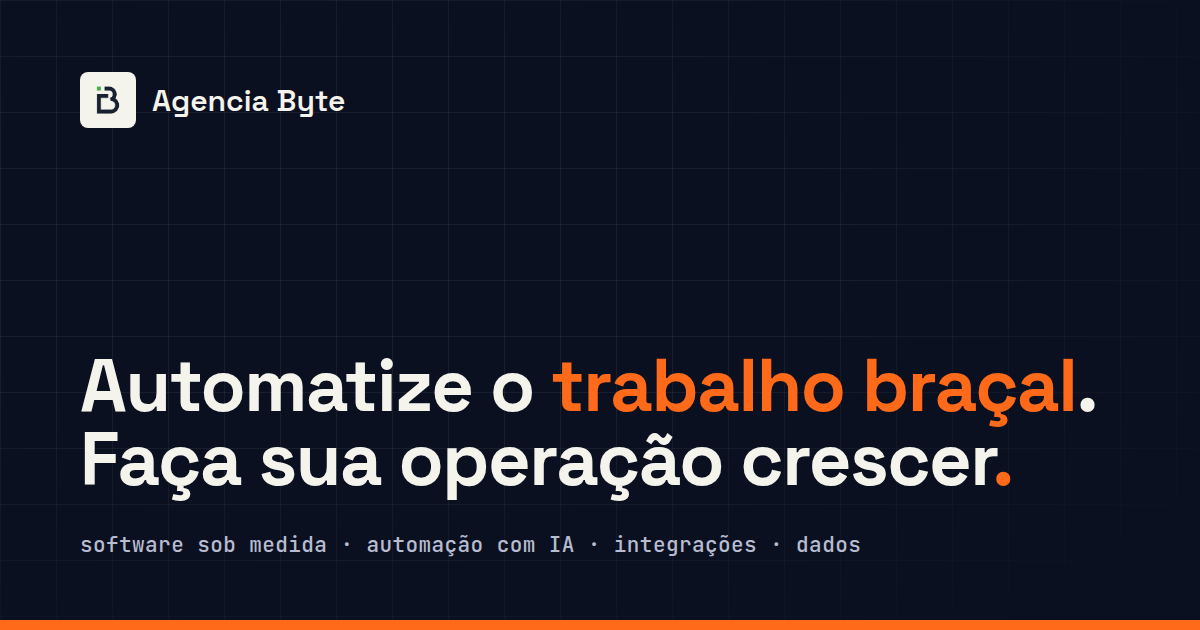
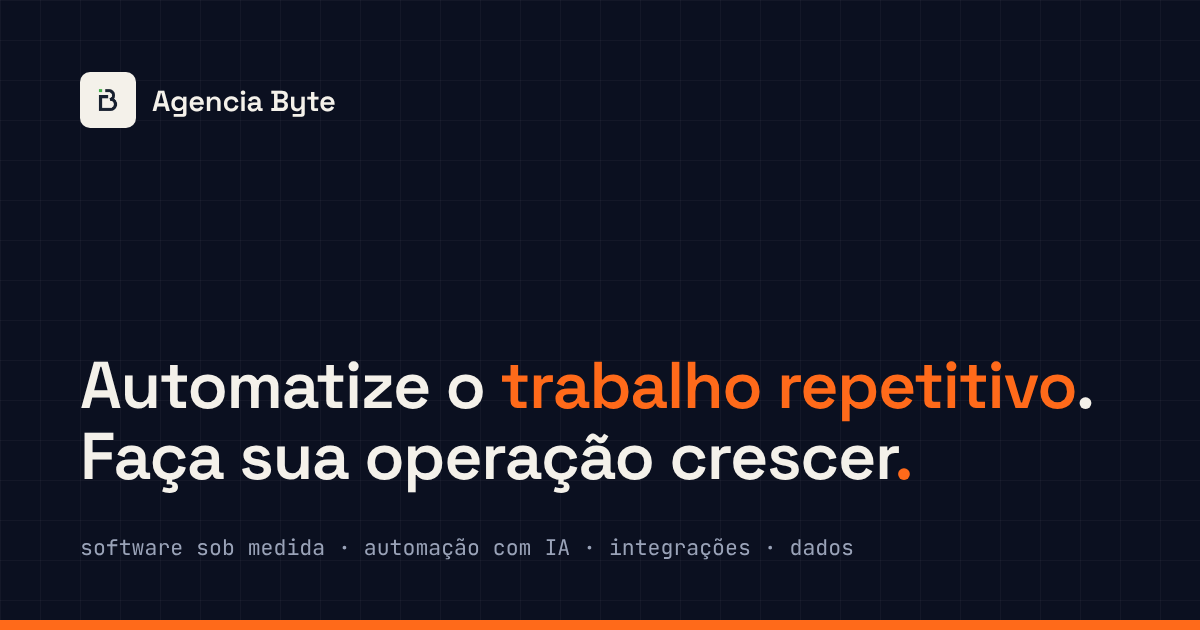
Atualiza frase da imagem de preview (og-image)
Troca "Automatize o trabalho braçal" por "Automatize o trabalho repetitivo"
e adiciona ?v=2 na URL da og:image para forçar WhatsApp/LinkedIn a buscar
a nova versão.

Claude-Session: https://claude.ai/code/session_014aYgqMKQgxsHuGdqEmaTQ5

diff --git a/blog/automacao-com-ia-para-pme/index.html b/blog/automacao-com-ia-para-pme/index.html
@@ -15,7 +15,7 @@
 <meta property="og:url" content="https://agenciabyte.com/blog/automacao-com-ia-para-pme" />
 <meta property="og:title" content="Automação com IA para PME: 7 processos que se pagam | Agência Byte" />
 <meta property="og:description" content="Quais processos automatizar com IA primeiro numa PME: os 7 que se pagam, os 3 que não valem, quanto custa e um checklist de prontidão." />
-<meta property="og:image" content="https://agenciabyte.com/img/og-image.png" />
+<meta property="og:image" content="https://agenciabyte.com/img/og-image.png?v=2" />
 <meta property="og:image:width" content="1200" />
 <meta property="og:image:height" content="630" />
 <meta property="og:locale" content="pt_BR" />
@@ -26,7 +26,7 @@
 <meta name="twitter:card" content="summary_large_image" />
 <meta name="twitter:title" content="Automação com IA para PME: 7 processos que se pagam | Agência Byte" />
 <meta name="twitter:description" content="Quais processos automatizar com IA primeiro numa PME: os 7 que se pagam, os 3 que não valem, quanto custa e um checklist de prontidão." />
-<meta name="twitter:image" content="https://agenciabyte.com/img/og-image.png" />
+<meta name="twitter:image" content="https://agenciabyte.com/img/og-image.png?v=2" />
 
 <meta name="theme-color" content="#FF6A1A" />
 <link rel="icon" href="/img/logo_byte_64.png" sizes="64x64" type="image/png" />
@@ -46,7 +46,7 @@
       "inLanguage": "pt-BR",
       "datePublished": "2026-11-13",
       "dateModified": "2026-11-13",
-      "image": "https://agenciabyte.com/img/og-image.png",
+      "image": "https://agenciabyte.com/img/og-image.png?v=2",
       "author": {
         "@id": "https://agenciabyte.com/#organization"
       },

diff --git a/servicos/integracao-bling-marketplaces/integracao-bling-mercado-livre/index.html b/servicos/integracao-bling-marketplaces/integracao-bling-mercado-livre/index.html
@@ -15,7 +15,7 @@
 <meta property="og:url" content="https://agenciabyte.com/servicos/integracao-bling-marketplaces/integracao-bling-mercado-livre" />
 <meta property="og:title" content="Integração Bling com Mercado Livre: quando usar API | Agência Byte" />
 <meta property="og:description" content="O que a integração nativa do Bling com o Mercado Livre cobre, onde ela para (variações, Full, kits, preço por comissão) e quando vale integrar via API." />
-<meta property="og:image" content="https://agenciabyte.com/img/og-image.png" />
+<meta property="og:image" content="https://agenciabyte.com/img/og-image.png?v=2" />
 <meta property="og:image:width" content="1200" />
 <meta property="og:image:height" content="630" />
 <meta property="og:locale" content="pt_BR" />
@@ -26,7 +26,7 @@
 <meta name="twitter:card" content="summary_large_image" />
 <meta name="twitter:title" content="Integração Bling com Mercado Livre: quando usar API | Agência Byte" />
 <meta name="twitter:description" content="O que a integração nativa do Bling com o Mercado Livre cobre, onde ela para (variações, Full, kits, preço por comissão) e quando vale integrar via API." />
-<meta name="twitter:image" content="https://agenciabyte.com/img/og-image.png" />
+<meta name="twitter:image" content="https://agenciabyte.com/img/og-image.png?v=2" />
 
 <meta name="theme-color" content="#FF6A1A" />
 <link rel="icon" href="/img/logo_byte_64.png" sizes="64x64" type="image/png" />

diff --git a/servicos/integracao-bling-marketplaces/integracao-bling-tiktok-shop/index.html b/servicos/integracao-bling-marketplaces/integracao-bling-tiktok-shop/index.html
@@ -15,7 +15,7 @@
 <meta property="og:url" content="https://agenciabyte.com/servicos/integracao-bling-marketplaces/integracao-bling-tiktok-shop" />
 <meta property="og:title" content="Integração Bling com TikTok Shop: quando usar API | Agência Byte" />
 <meta property="og:description" content="Como o Bling integra com o TikTok Shop, onde a integração nativa para (picos de live, kits, estoque compartilhado, produção) e quando vale integrar via API." />
-<meta property="og:image" content="https://agenciabyte.com/img/og-image.png" />
+<meta property="og:image" content="https://agenciabyte.com/img/og-image.png?v=2" />
 <meta property="og:image:width" content="1200" />
 <meta property="og:image:height" content="630" />
 <meta property="og:locale" content="pt_BR" />
@@ -26,7 +26,7 @@
 <meta name="twitter:card" content="summary_large_image" />
 <meta name="twitter:title" content="Integração Bling com TikTok Shop: quando usar API | Agência Byte" />
 <meta name="twitter:description" content="Como o Bling integra com o TikTok Shop, onde a integração nativa para (picos de live, kits, estoque compartilhado, produção) e quando vale integrar via API." />
-<meta name="twitter:image" content="https://agenciabyte.com/img/og-image.png" />
+<meta name="twitter:image" content="https://agenciabyte.com/img/og-image.png?v=2" />
 
 <meta name="theme-color" content="#FF6A1A" />
 <link rel="icon" href="/img/logo_byte_64.png" sizes="64x64" type="image/png" />

diff --git a/software-sob-medida-ponta-grossa/index.html b/software-sob-medida-ponta-grossa/index.html
@@ -15,7 +15,7 @@
 <meta property="og:url" content="https://agenciabyte.com/software-sob-medida-ponta-grossa" />
 <meta property="og:title" content="Software sob medida em Ponta Grossa (PR) | Agência Byte" />
 <meta property="og:description" content="Desenvolvimento de software sob medida em Ponta Grossa: sistemas, integração de ERP, CRM e marketplaces, automação com IA e Power BI. Atendemos também todo o Brasil e o exterior." />
-<meta property="og:image" content="https://agenciabyte.com/img/og-image.png" />
+<meta property="og:image" content="https://agenciabyte.com/img/og-image.png?v=2" />
 <meta property="og:image:width" content="1200" />
 <meta property="og:image:height" content="630" />
 <meta property="og:locale" content="pt_BR" />
@@ -26,7 +26,7 @@
 <meta name="twitter:card" content="summary_large_image" />
 <meta name="twitter:title" content="Software sob medida em Ponta Grossa (PR) | Agência Byte" />
 <meta name="twitter:description" content="Desenvolvimento de software sob medida em Ponta Grossa: sistemas, integração de ERP, CRM e marketplaces, automação com IA e Power BI. Atendemos também todo o Brasil e o exterior." />
-<meta name="twitter:image" content="https://agenciabyte.com/img/og-image.png" />
+<meta name="twitter:image" content="https://agenciabyte.com/img/og-image.png?v=2" />
 
 <meta name="theme-color" content="#FF6A1A" />
 <link rel="icon" href="/img/logo_byte_64.png" sizes="64x64" type="image/png" />

diff --git a/servicos/integracao-bling-marketplaces/integracao-bling-shopee/index.html b/servicos/integracao-bling-marketplaces/integracao-bling-shopee/index.html
@@ -15,7 +15,7 @@
 <meta property="og:url" content="https://agenciabyte.com/servicos/integracao-bling-marketplaces/integracao-bling-shopee" />
 <meta property="og:title" content="Integração Bling com Shopee: limites e quando usar API | Agência Byte" />
 <meta property="og:description" content="O que a integração nativa do Bling com a Shopee cobre, onde ela para (campanhas, variações, kits, preço por canal) e quando vale integrar via API." />
-<meta property="og:image" content="https://agenciabyte.com/img/og-image.png" />
+<meta property="og:image" content="https://agenciabyte.com/img/og-image.png?v=2" />
 <meta property="og:image:width" content="1200" />
 <meta property="og:image:height" content="630" />
 <meta property="og:locale" content="pt_BR" />
@@ -26,7 +26,7 @@
 <meta name="twitter:card" content="summary_large_image" />
 <meta name="twitter:title" content="Integração Bling com Shopee: limites e quando usar API | Agência Byte" />
 <meta name="twitter:description" content="O que a integração nativa do Bling com a Shopee cobre, onde ela para (campanhas, variações, kits, preço por canal) e quando vale integrar via API." />
-<meta name="twitter:image" content="https://agenciabyte.com/img/og-image.png" />
+<meta name="twitter:image" content="https://agenciabyte.com/img/og-image.png?v=2" />
 
 <meta name="theme-color" content="#FF6A1A" />
 <link rel="icon" href="/img/logo_byte_64.png" sizes="64x64" type="image/png" />

diff --git a/servicos/integracao-bling-marketplaces/index.html b/servicos/integracao-bling-marketplaces/index.html
@@ -15,7 +15,7 @@
 <meta property="og:url" content="https://agenciabyte.com/servicos/integracao-bling-marketplaces" />
 <meta property="og:title" content="Integração Bling com marketplaces: quando usar API | Agência Byte" />
 <meta property="og:description" content="O que o Bling faz sozinho com Mercado Livre, Shopee e TikTok Shop, os 5 limites que pedem integração via API (kits, fiscal, estoque, produção, preço) e o prazo." />
-<meta property="og:image" content="https://agenciabyte.com/img/og-image.png" />
+<meta property="og:image" content="https://agenciabyte.com/img/og-image.png?v=2" />
 <meta property="og:image:width" content="1200" />
 <meta property="og:image:height" content="630" />
 <meta property="og:locale" content="pt_BR" />
@@ -26,7 +26,7 @@
 <meta name="twitter:card" content="summary_large_image" />
 <meta name="twitter:title" content="Integração Bling com marketplaces: quando usar API | Agência Byte" />
 <meta name="twitter:description" content="O que o Bling faz sozinho com Mercado Livre, Shopee e TikTok Shop, os 5 limites que pedem integração via API (kits, fiscal, estoque, produção, preço) e o prazo." />
-<meta name="twitter:image" content="https://agenciabyte.com/img/og-image.png" />
+<meta name="twitter:image" content="https://agenciabyte.com/img/og-image.png?v=2" />
 
 <meta name="theme-color" content="#FF6A1A" />
 <link rel="icon" href="/img/logo_byte_64.png" sizes="64x64" type="image/png" />

diff --git a/es/casos-de-uso/automatizacion-de-procesos-administrativos/index.html b/es/casos-de-uso/automatizacion-de-procesos-administrativos/index.html
@@ -17,7 +17,7 @@
 <meta property="og:url" content="https://agenciabyte.com/es/casos-de-uso/automatizacion-de-procesos-administrativos" />
 <meta property="og:title" content="Automatización de procesos administrativos con IA | Agência Byte" />
 <meta property="og:description" content="Automatización de procesos administrativos con IA: conciliación bancaria, cobranza y altas de clientes hechas solas, con aprobación humana en los pagos." />
-<meta property="og:image" content="https://agenciabyte.com/img/og-image.png" />
+<meta property="og:image" content="https://agenciabyte.com/img/og-image.png?v=2" />
 <meta property="og:image:width" content="1200" />
 <meta property="og:image:height" content="630" />
 <meta property="og:locale" content="es_ES" />
@@ -29,7 +29,7 @@
 <meta name="twitter:card" content="summary_large_image" />
 <meta name="twitter:title" content="Automatización de procesos administrativos con IA | Agência Byte" />
 <meta name="twitter:description" content="Automatización de procesos administrativos con IA: conciliación bancaria, cobranza y altas de clientes hechas solas, con aprobación humana en los pagos." />
-<meta name="twitter:image" content="https://agenciabyte.com/img/og-image.png" />
+<meta name="twitter:image" content="https://agenciabyte.com/img/og-image.png?v=2" />
 
 <meta name="theme-color" content="#FF6A1A" />
 <link rel="icon" href="/img/logo_byte_64.png" sizes="64x64" type="image/png" />

diff --git a/servicos/power-bi-para-distribuidoras-e-transportadoras/index.html b/servicos/power-bi-para-distribuidoras-e-transportadoras/index.html
@@ -15,7 +15,7 @@
 <meta property="og:url" content="https://agenciabyte.com/servicos/power-bi-para-distribuidoras-e-transportadoras" />
 <meta property="og:title" content="Power BI para distribuidoras e transportadoras | Agência Byte" />
 <meta property="og:description" content="Os 12 indicadores de Power BI que mudam a operação de distribuidoras e transportadoras (OTIF, custo por entrega, margem por SKU, ruptura, giro) e o prazo." />
-<meta property="og:image" content="https://agenciabyte.com/img/og-image.png" />
+<meta property="og:image" content="https://agenciabyte.com/img/og-image.png?v=2" />
 <meta property="og:image:width" content="1200" />
 <meta property="og:image:height" content="630" />
 <meta property="og:locale" content="pt_BR" />
@@ -26,7 +26,7 @@
 <meta name="twitter:card" content="summary_large_image" />
 <meta name="twitter:title" content="Power BI para distribuidoras e transportadoras | Agência Byte" />
 <meta name="twitter:description" content="Os 12 indicadores de Power BI que mudam a operação de distribuidoras e transportadoras (OTIF, custo por entrega, margem por SKU, ruptura, giro) e o prazo." />
-<meta name="twitter:image" content="https://agenciabyte.com/img/og-image.png" />
+<meta name="twitter:image" content="https://agenciabyte.com/img/og-image.png?v=2" />
 
 <meta name="theme-color" content="#FF6A1A" />
 <link rel="icon" href="/img/logo_byte_64.png" sizes="64x64" type="image/png" />

diff --git a/casos-de-uso/automacao-de-processos-administrativos/index.html b/casos-de-uso/automacao-de-processos-administrativos/index.html
@@ -17,7 +17,7 @@
 <meta property="og:url" content="https://agenciabyte.com/casos-de-uso/automacao-de-processos-administrativos" />
 <meta property="og:title" content="Automação de processos administrativos com IA | Agência Byte" />
 <meta property="og:description" content="Automação de processos administrativos com IA: conciliação bancária, cobrança e cadastros feitos sozinhos, com aprovação humana nos pagamentos." />
-<meta property="og:image" content="https://agenciabyte.com/img/og-image.png" />
+<meta property="og:image" content="https://agenciabyte.com/img/og-image.png?v=2" />
 <meta property="og:image:width" content="1200" />
 <meta property="og:image:height" content="630" />
 <meta property="og:locale" content="pt_BR" />
@@ -29,7 +29,7 @@
 <meta name="twitter:card" content="summary_large_image" />
 <meta name="twitter:title" content="Automação de processos administrativos com IA | Agência Byte" />
 <meta name="twitter:description" content="Automação de processos administrativos com IA: conciliação bancária, cobrança e cadastros feitos sozinhos, com aprovação humana nos pagamentos." />
-<meta name="twitter:image" content="https://agenciabyte.com/img/og-image.png" />
+<meta name="twitter:image" content="https://agenciabyte.com/img/og-image.png?v=2" />
 
 <meta name="theme-color" content="#FF6A1A" />
 <link rel="icon" href="/img/logo_byte_64.png" sizes="64x64" type="image/png" />

diff --git a/es/casos-de-uso/asistente-documentos-de-la-empresa/index.html b/es/casos-de-uso/asistente-documentos-de-la-empresa/index.html
@@ -17,7 +17,7 @@
 <meta property="og:url" content="https://agenciabyte.com/es/casos-de-uso/asistente-documentos-de-la-empresa" />
 <meta property="og:title" content="Asistente de IA para documentos de la empresa | Agência Byte" />
 <meta property="og:description" content="Un asistente de IA que responde al equipo con base en los manuales y políticas de la empresa, mostrando siempre el documento del que sacó la respuesta." />
-<meta property="og:image" content="https://agenciabyte.com/img/og-image.png" />
+<meta property="og:image" content="https://agenciabyte.com/img/og-image.png?v=2" />
 <meta property="og:image:width" content="1200" />
 <meta property="og:image:height" content="630" />
 <meta property="og:locale" content="es_ES" />
@@ -29,7 +29,7 @@
 <meta name="twitter:card" content="summary_large_image" />
 <meta name="twitter:title" content="Asistente de IA para documentos de la empresa | Agência Byte" />
 <meta name="twitter:description" content="Un asistente de IA que responde al equipo con base en los manuales y políticas de la empresa, mostrando siempre el documento del que sacó la respuesta." />
-<meta name="twitter:image" content="https://agenciabyte.com/img/og-image.png" />
+<meta name="twitter:image" content="https://agenciabyte.com/img/og-image.png?v=2" />
 
 <meta name="theme-color" content="#FF6A1A" />
 <link rel="icon" href="/img/logo_byte_64.png" sizes="64x64" type="image/png" />

diff --git a/es/casos-de-uso/extraccion-de-datos-de-documentos/index.html b/es/casos-de-uso/extraccion-de-datos-de-documentos/index.html
@@ -17,7 +17,7 @@
 <meta property="og:url" content="https://agenciabyte.com/es/casos-de-uso/extraccion-de-datos-de-documentos" />
 <meta property="og:title" content="Extracción de datos con IA: facturas y CT-e | Agência Byte" />
 <meta property="og:description" content="Extracción de datos con IA: facturas, CT-e, contratos y comprobantes leídos, verificados y cargados en el ERP. El equipo solo revisa lo que no coincide." />
-<meta property="og:image" content="https://agenciabyte.com/img/og-image.png" />
+<meta property="og:image" content="https://agenciabyte.com/img/og-image.png?v=2" />
 <meta property="og:image:width" content="1200" />
 <meta property="og:image:height" content="630" />
 <meta property="og:locale" content="es_ES" />
@@ -29,7 +29,7 @@
 <meta name="twitter:card" content="summary_large_image" />
 <meta name="twitter:title" content="Extracción de datos con IA: facturas y CT-e | Agência Byte" />
 <meta name="twitter:description" content="Extracción de datos con IA: facturas, CT-e, contratos y comprobantes leídos, verificados y cargados en el ERP. El equipo solo revisa lo que no coincide." />
-<meta name="twitter:image" content="https://agenciabyte.com/img/og-image.png" />
+<meta name="twitter:image" content="https://agenciabyte.com/img/og-image.png?v=2" />
 
 <meta name="theme-color" content="#FF6A1A" />
 <link rel="icon" href="/img/logo_byte_64.png" sizes="64x64" type="image/png" />

diff --git a/en/use-cases/whatsapp-ai-customer-service/index.html b/en/use-cases/whatsapp-ai-customer-service/index.html
@@ -17,7 +17,7 @@
 <meta property="og:url" content="https://agenciabyte.com/en/use-cases/whatsapp-ai-customer-service" />
 <meta property="og:title" content="WhatsApp customer service automation with AI | Agência Byte" />
 <meta property="og:description" content="WhatsApp customer service automation with AI: answers 24/7, checks the order in the ERP and hands over to a person when needed, with a conversation summary." />
-<meta property="og:image" content="https://agenciabyte.com/img/og-image.png" />
+<meta property="og:image" content="https://agenciabyte.com/img/og-image.png?v=2" />
 <meta property="og:image:width" content="1200" />
 <meta property="og:image:height" content="630" />
 <meta property="og:locale" content="en_US" />
@@ -29,7 +29,7 @@
 <meta name="twitter:card" content="summary_large_image" />
 <meta name="twitter:title" content="WhatsApp customer service automation with AI | Agência Byte" />
 <meta name="twitter:description" content="WhatsApp customer service automation with AI: answers 24/7, checks the order in the ERP and hands over to a person when needed, with a conversation summary." />
-<meta name="twitter:image" content="https://agenciabyte.com/img/og-image.png" />
+<meta name="twitter:image" content="https://agenciabyte.com/img/og-image.png?v=2" />
 
 <meta name="theme-color" content="#FF6A1A" />
 <link rel="icon" href="/img/logo_byte_64.png" sizes="64x64" type="image/png" />
